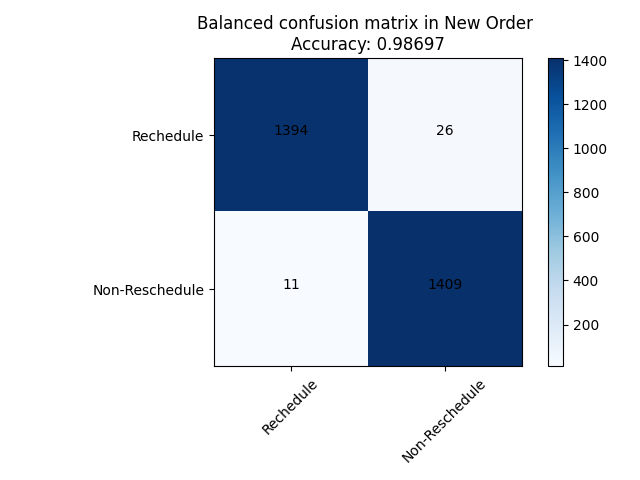
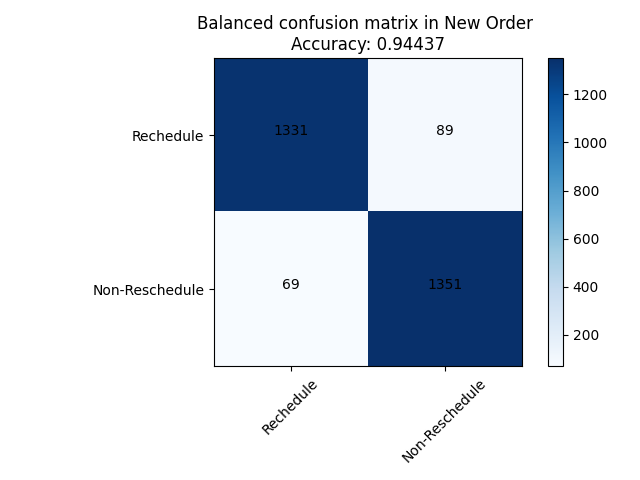
meh

diff --git a/src/machine_learning.py b/src/machine_learning.py
@@ -1,13 +1,13 @@
 from data import DataProduct
 from utilities import plot, pd, np
 import pandas as pd
-from sklearn.model_selection import train_test_split
+from sklearn.model_selection import train_test_split, KFold
 from sklearn.tree import DecisionTreeClassifier
 from sklearn.metrics import accuracy_score, confusion_matrix
 from sklearn import tree
 from sklearn.feature_selection import r_regression
 from imblearn.over_sampling import SMOTE
-from collections import Counter
+# from collections import Counter
 
 def run_DecisionTree(data: str):
     fill = "New Order" if data == 'order' else "Product"
@@ -16,7 +16,7 @@ def run_DecisionTree(data: str):
     y = df['Rescheduling'].values.reshape(-1, 1)  # type: ignore
     x = df[['Week','Timestep', 'MU', 'RBM', 'RSDU', 'Total extended time']]
 
-    X_train, X_test, y_train, y_test = train_test_split(x, y, random_state=42, test_size=0.05)
+    X_train, X_test, y_train, y_test = train_test_split(x, y, random_state=42, test_size=0.2)
 
     model = DecisionTreeClassifier(ccp_alpha=0.0, criterion='gini', max_depth=None,
                         max_features=None, max_leaf_nodes=None,
@@ -65,7 +65,7 @@ def balance_data(data: str):
     # print(f'Original dataset shape {len(y)}')
     sm = SMOTE(random_state=42)
     X_res, y_res = sm.fit_resample(x, y) # type: ignore
-    X_train, X_test, y_train, y_test = train_test_split(X_res, y_res, random_state=42, test_size=0.07)
+    X_train, X_test, y_train, y_test = train_test_split(X_res, y_res, random_state=42, test_size=0.20)
     __x = pd.DataFrame(X_res)
     __y = pd.Series(y_res)
     new_data = pd.merge(__x, __y.rename("Rescheduling"), left_index=True, right_index=True)
@@ -104,7 +104,7 @@ def balance_data(data: str):
     plot.tight_layout()
     plot.savefig(f"misc/balanced_confusion_matrix_{data}")
 
-    # plot.show()
+    plot.show()
 
 
 def plot_decesion_tree(data: str):
@@ -113,7 +113,7 @@ def plot_decesion_tree(data: str):
 
     y = df['Rescheduling'].values.reshape(-1, 1)  # type: ignore
     x = df[['Timestep', 'MU', 'RBM', 'RSDU', 'Total extended time']]
-    X_train, X_test, y_train, y_test = train_test_split(x, y, random_state=42, test_size=0.07)
+    X_train, X_test, y_train, y_test = train_test_split(x, y, random_state=42, test_size=0.2, train_size= 0.8)
 
 
     model = DecisionTreeClassifier(ccp_alpha=0.0, criterion='gini', max_depth=None,
@@ -130,3 +130,35 @@ def plot_decesion_tree(data: str):
     text = tree.export_text(clf, feature_names=['Timestep', 'MU', 'RBM', 'RSDU', 'Total extended time'], max_depth=3) # type: ignore
     with open(f'misc/text_tree_{data}.txt', "w+") as file:
         file.write(text)
+
+def split_sample_test(data: str, sample: int):
+    fill = "NewOrder" if data == 'order' else "Product"
+    df = pd.read_csv(f"data/balanced_feature_{data}.csv")
+
+    # y = df['Rescheduling'].values.reshape(-1, 1)  # type: ignore
+    # x = df[['Timestep', 'MU', 'RBM', 'RSDU', 'Total extended time']]
+    kf = KFold(n_splits=7, shuffle=True)
+    model = DecisionTreeClassifier(ccp_alpha=0.0, criterion='gini', max_depth=None,
+                    max_features=None, max_leaf_nodes=None,
+                    min_impurity_decrease=0.0,
+                    min_samples_leaf= 1, min_samples_split= 2,
+                    min_weight_fraction_leaf=0.0,
+                    random_state=100, splitter='best')
+    with open(f"misc/kfold_{fill}_{sample}.txt", "w+") as file:
+        for index, (train_index, test_index) in enumerate(kf.split(df)) :
+            file.write(f"Test fold index: {index}\n")
+            # print(train_index)
+            df_train = df.iloc[train_index]
+            file.write(f"\tTrain: {round(len(train_index)/len(df), 4)*100}%\n")
+            file.write(f"\tTest:  {round(len(test_index)/len(df), 4)*100}%\n")
+            y_train = df_train['Rescheduling'].values.reshape(-1, 1)  # type: ignore
+            x_train = df_train[['Timestep', 'MU', 'RBM', 'RSDU', 'Total extended time']]
+
+            x_test = df[['Timestep', 'MU', 'RBM', 'RSDU', 'Total extended time']]
+            y_test = df['Rescheduling'].values.reshape(-1, 1)  # type: ignore
+
+            clf = model.fit(x_train, y_train)
+            y_predict= clf.predict(x_test)
+            accuracy = accuracy_score(y_predict, y_test)
+            file.write(f"\tAccuracy: {accuracy}\n")
+    

diff --git a/src/test.py b/src/test.py
@@ -21,5 +21,9 @@ meh = "order" if data_src else "product"
 # DataNewOrder()
 # run_DecisionTree(meh)
 # balance_data(meh)
-plot_decesion_tree(meh)
+# plot_decesion_tree(meh)
 # plot_correlation("order")
+for x in [True, False]:
+    meh = "order" if x else "product"
+    for x in range(2,7):
+        split_sample_test(meh, x)
